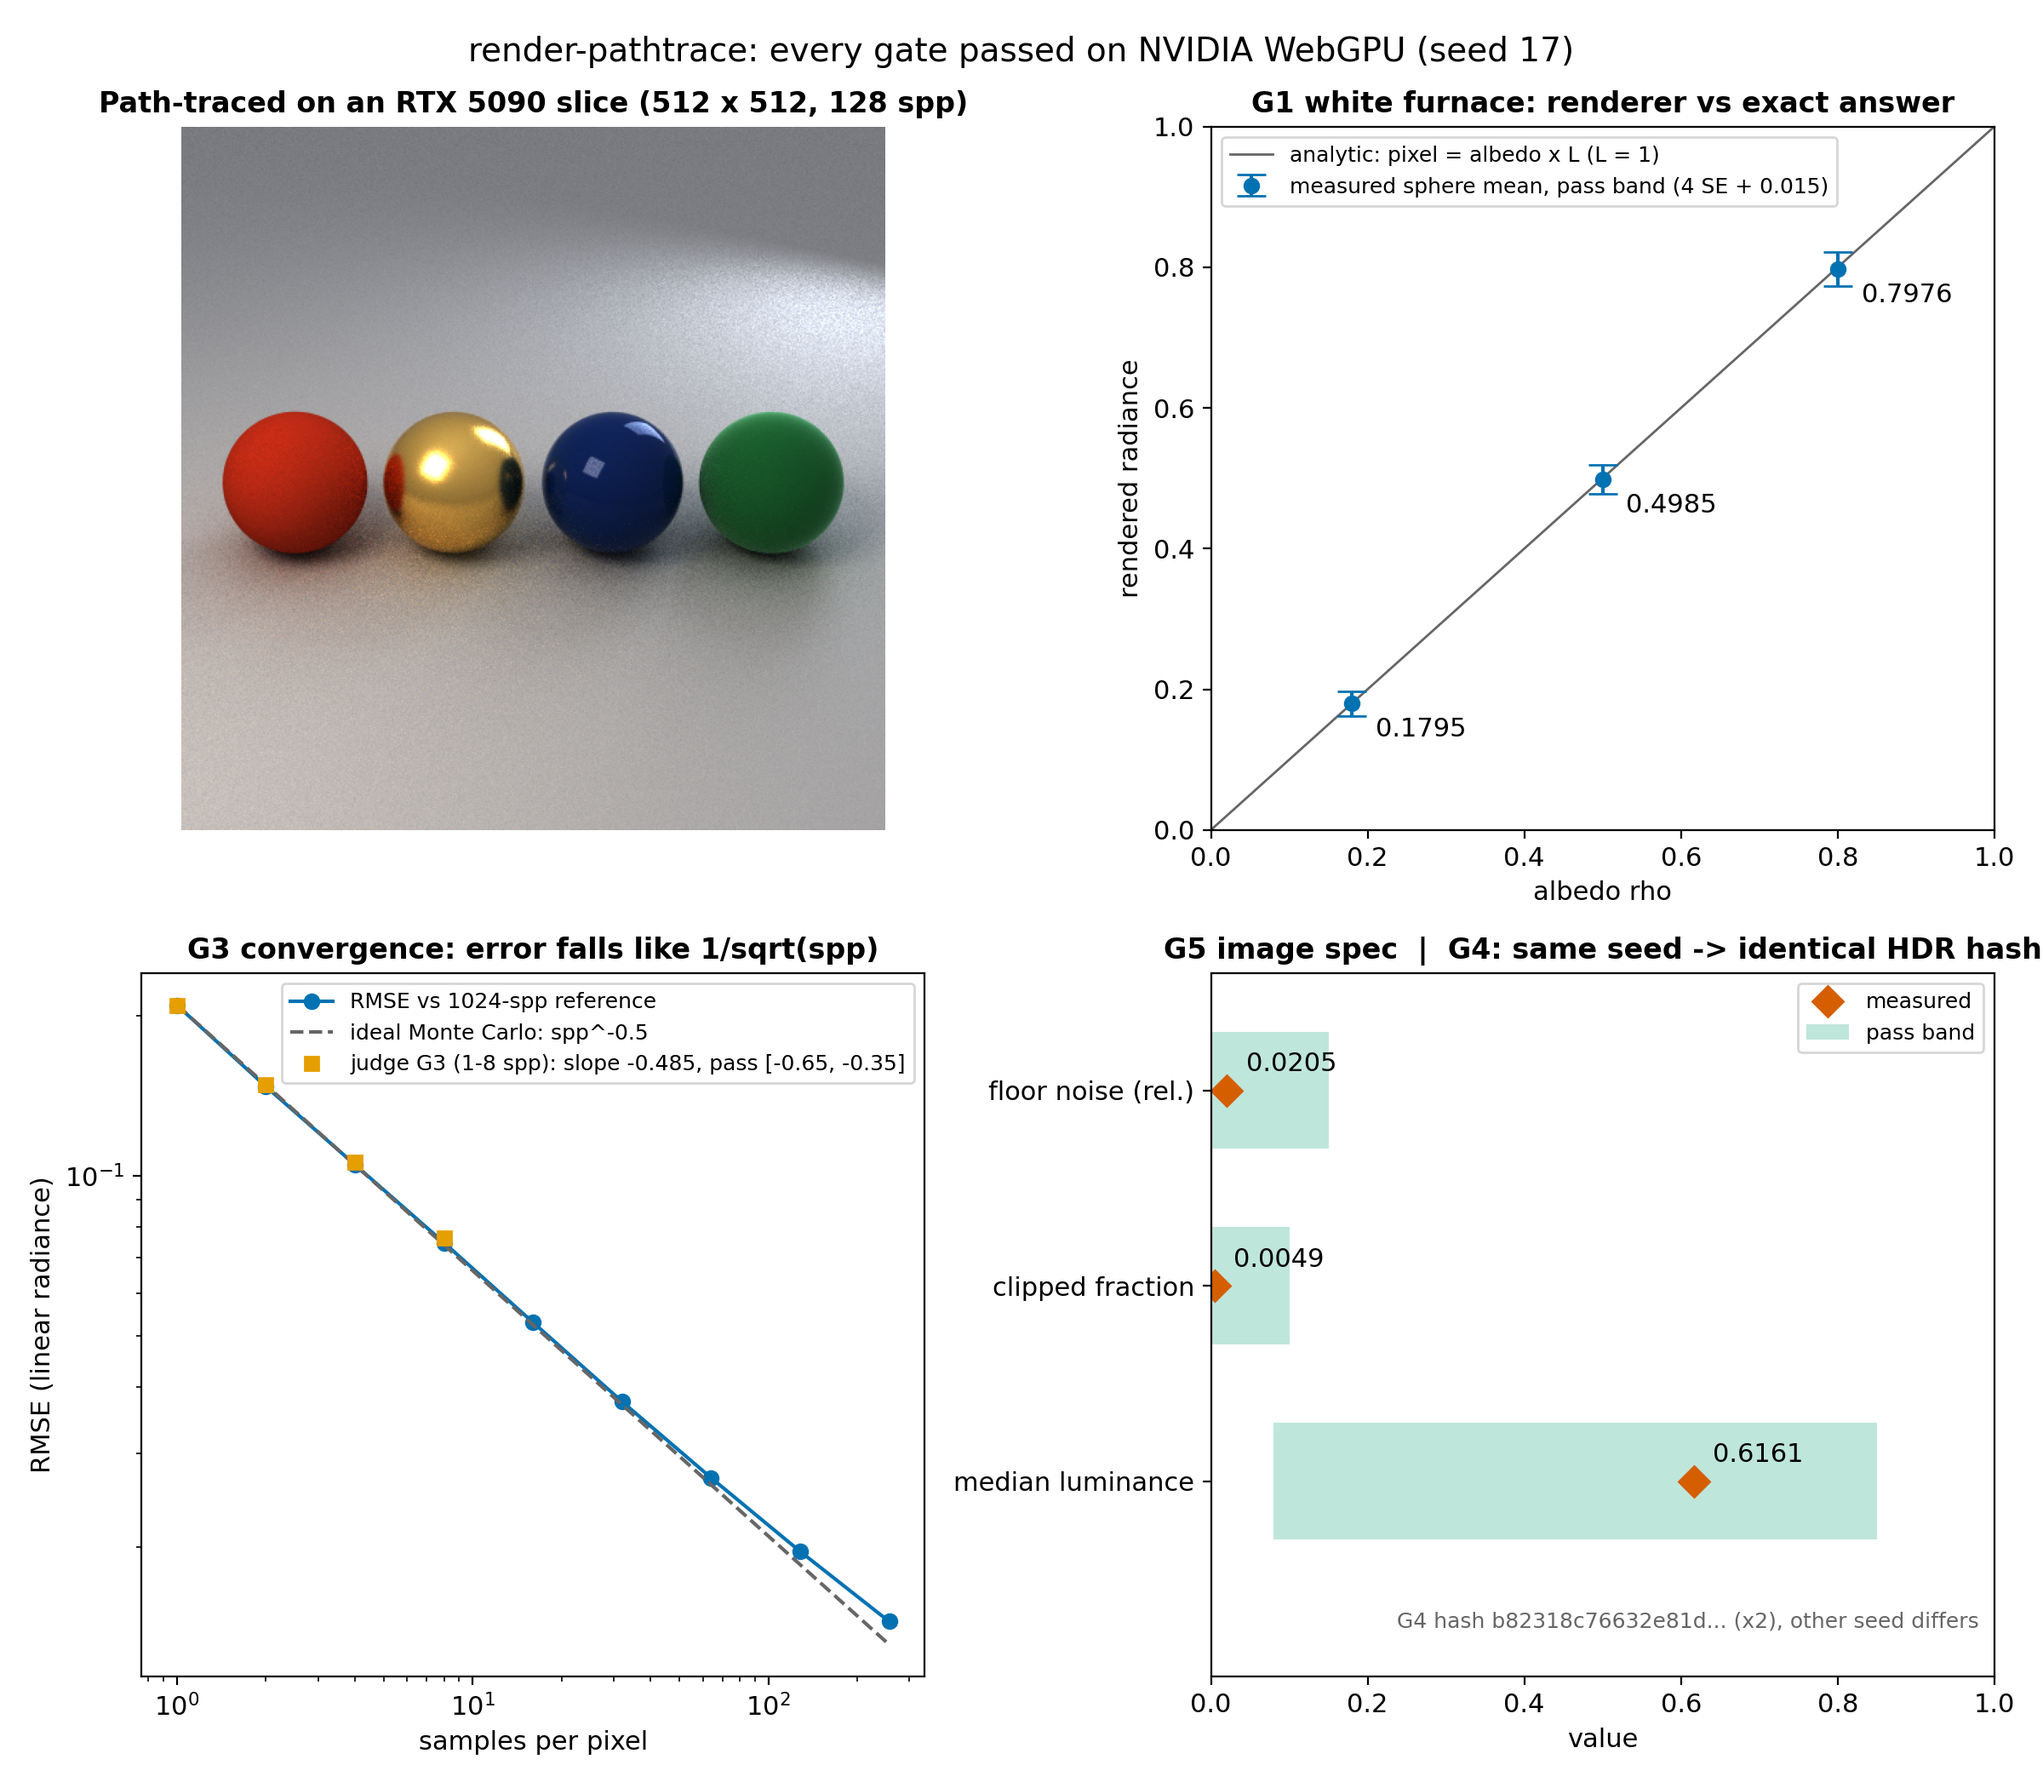
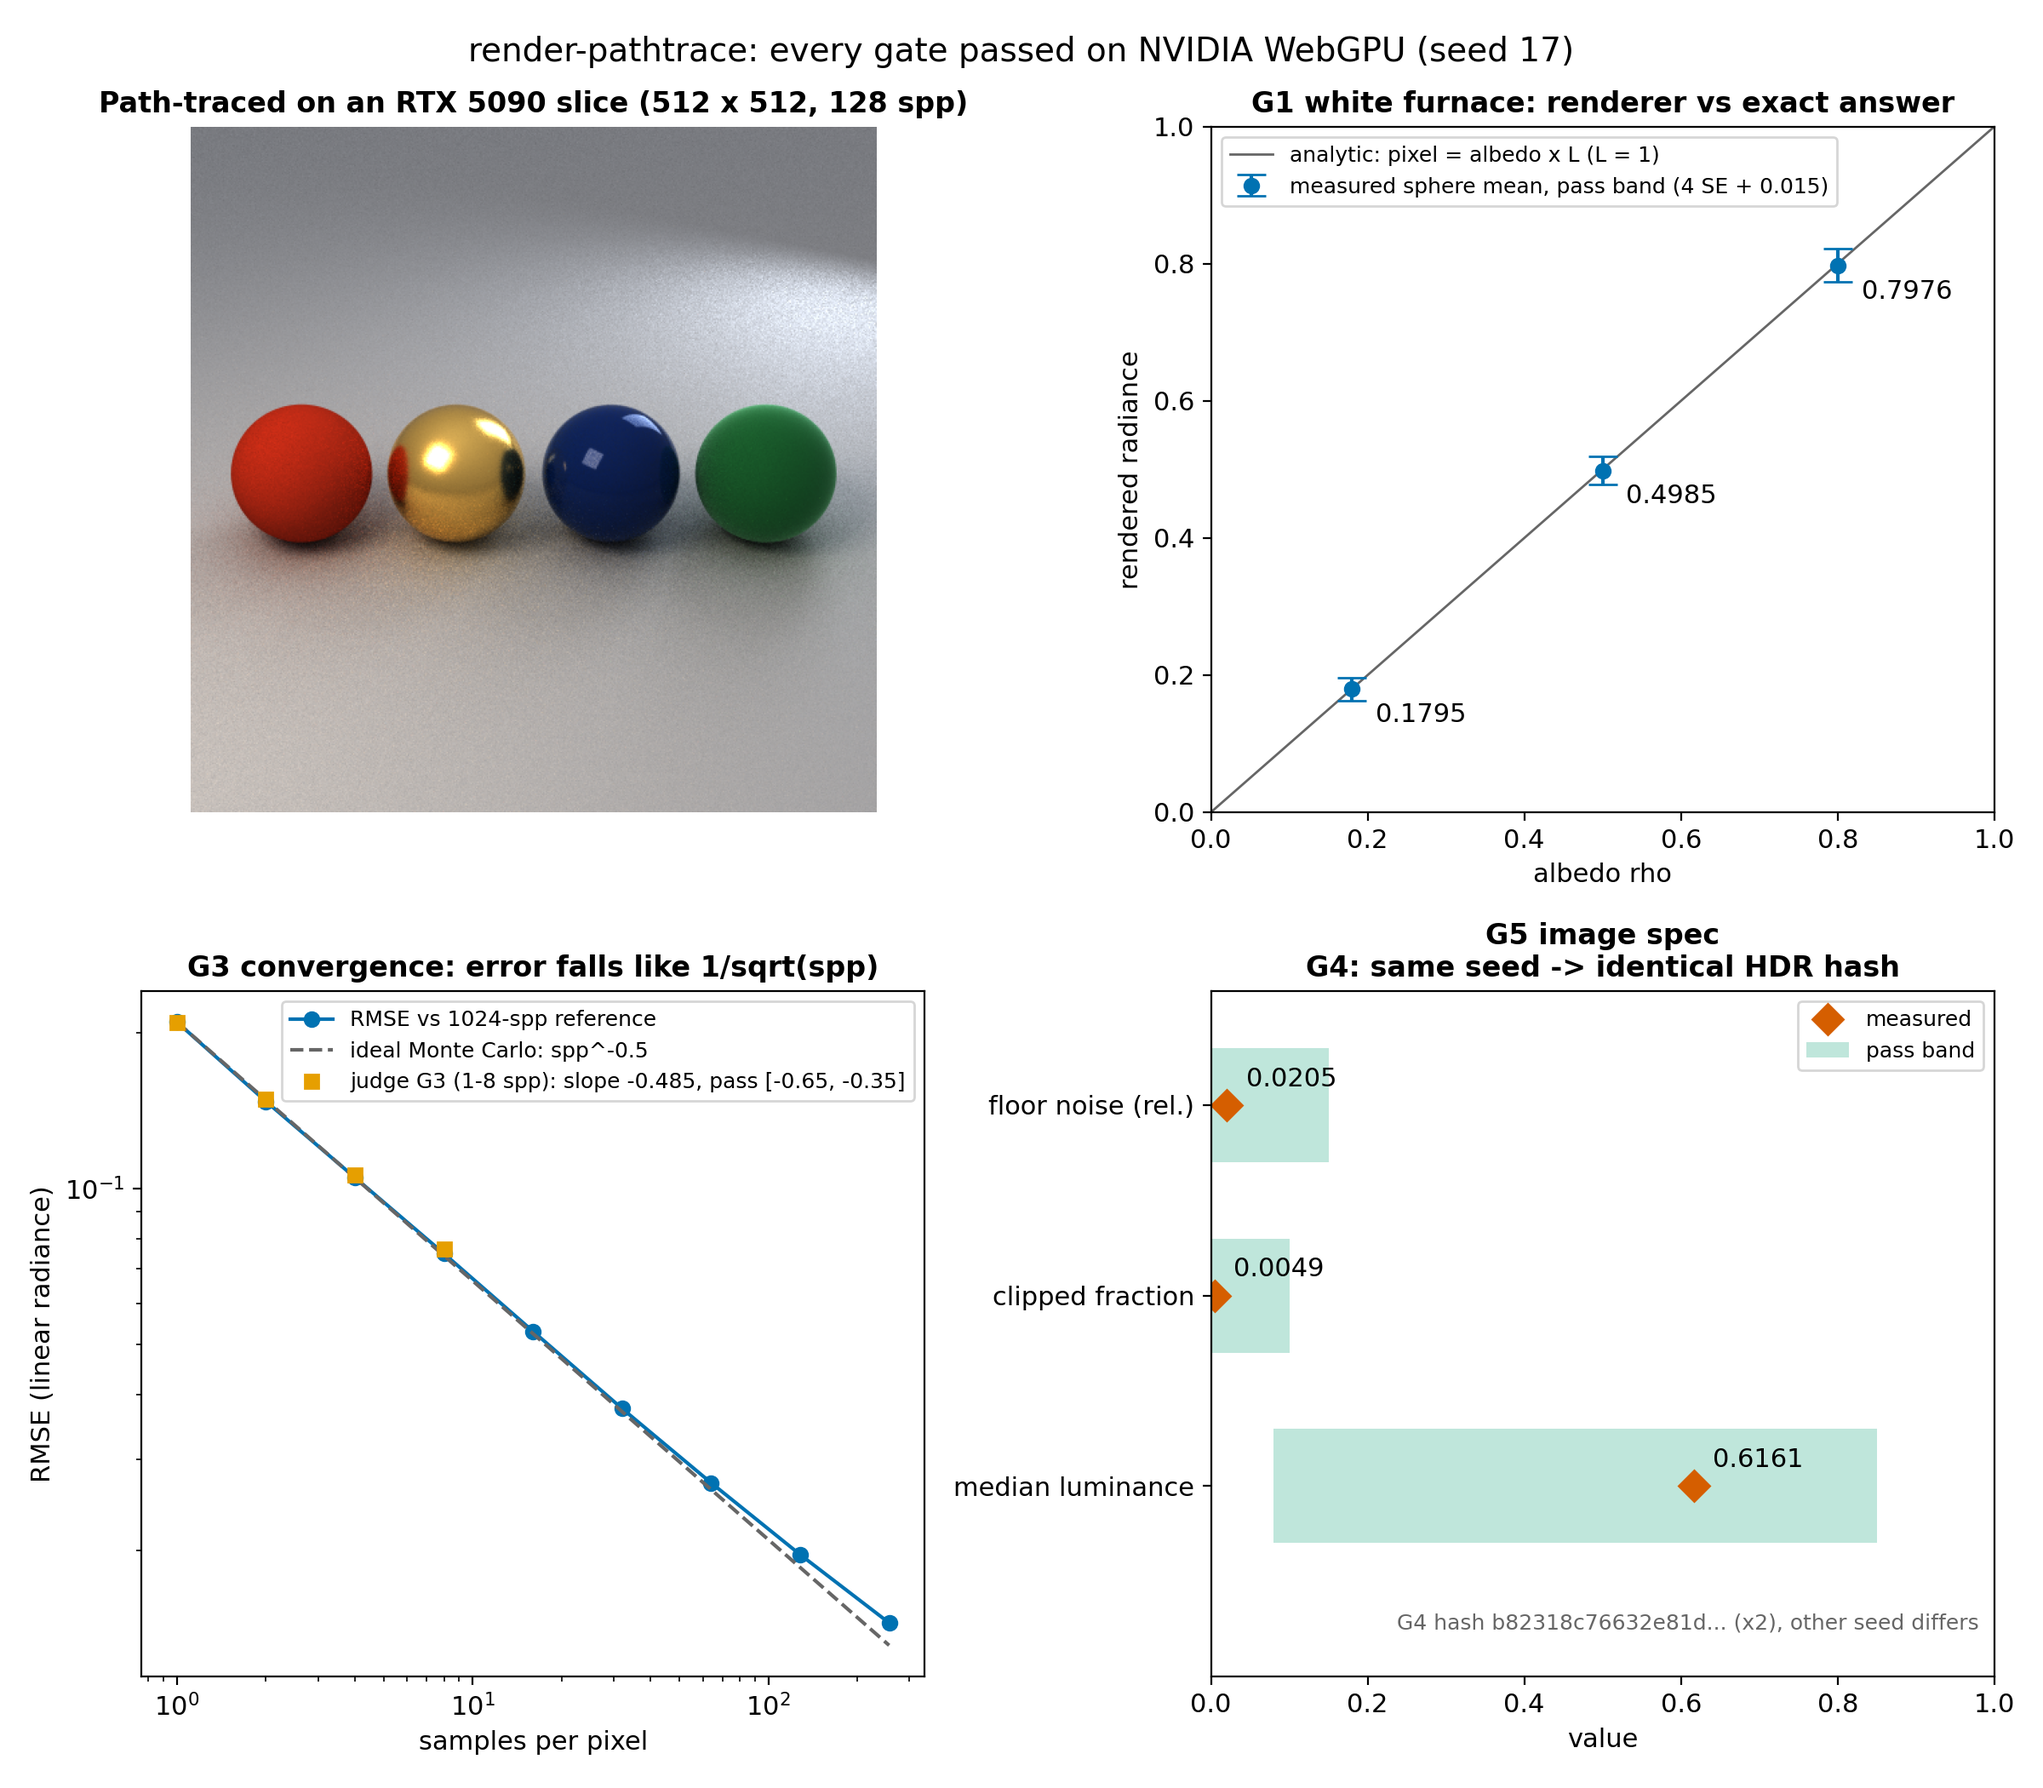
fix(cookbook): ship the accepted GPU versions and unclip the result figure title

diff --git a/cookbook/render-pathtrace/media/make_figures.py b/cookbook/render-pathtrace/media/make_figures.py
@@ -90,7 +90,7 @@ def result_figure(run, frames, out):
         ax.annotate(f"{val:.4f}", (val, i), textcoords="offset points", xytext=(8, 8))
     g4 = v["G4"]
     ax.set(yticks=y, yticklabels=names, xlim=(0, 1), xlabel="value",
-           title="G5 image spec  |  G4: same seed -> identical HDR hash")
+           title="G5 image spec\nG4: same seed -> identical HDR hash")
     ax.text(0.98, -0.75, f"G4 hash {g4['same_seed_hashes'][0][:16]}... (x2), other seed differs",
             ha="right", fontsize=9, color=GREY)
     ax.set_ylim(-1, 2.6)
